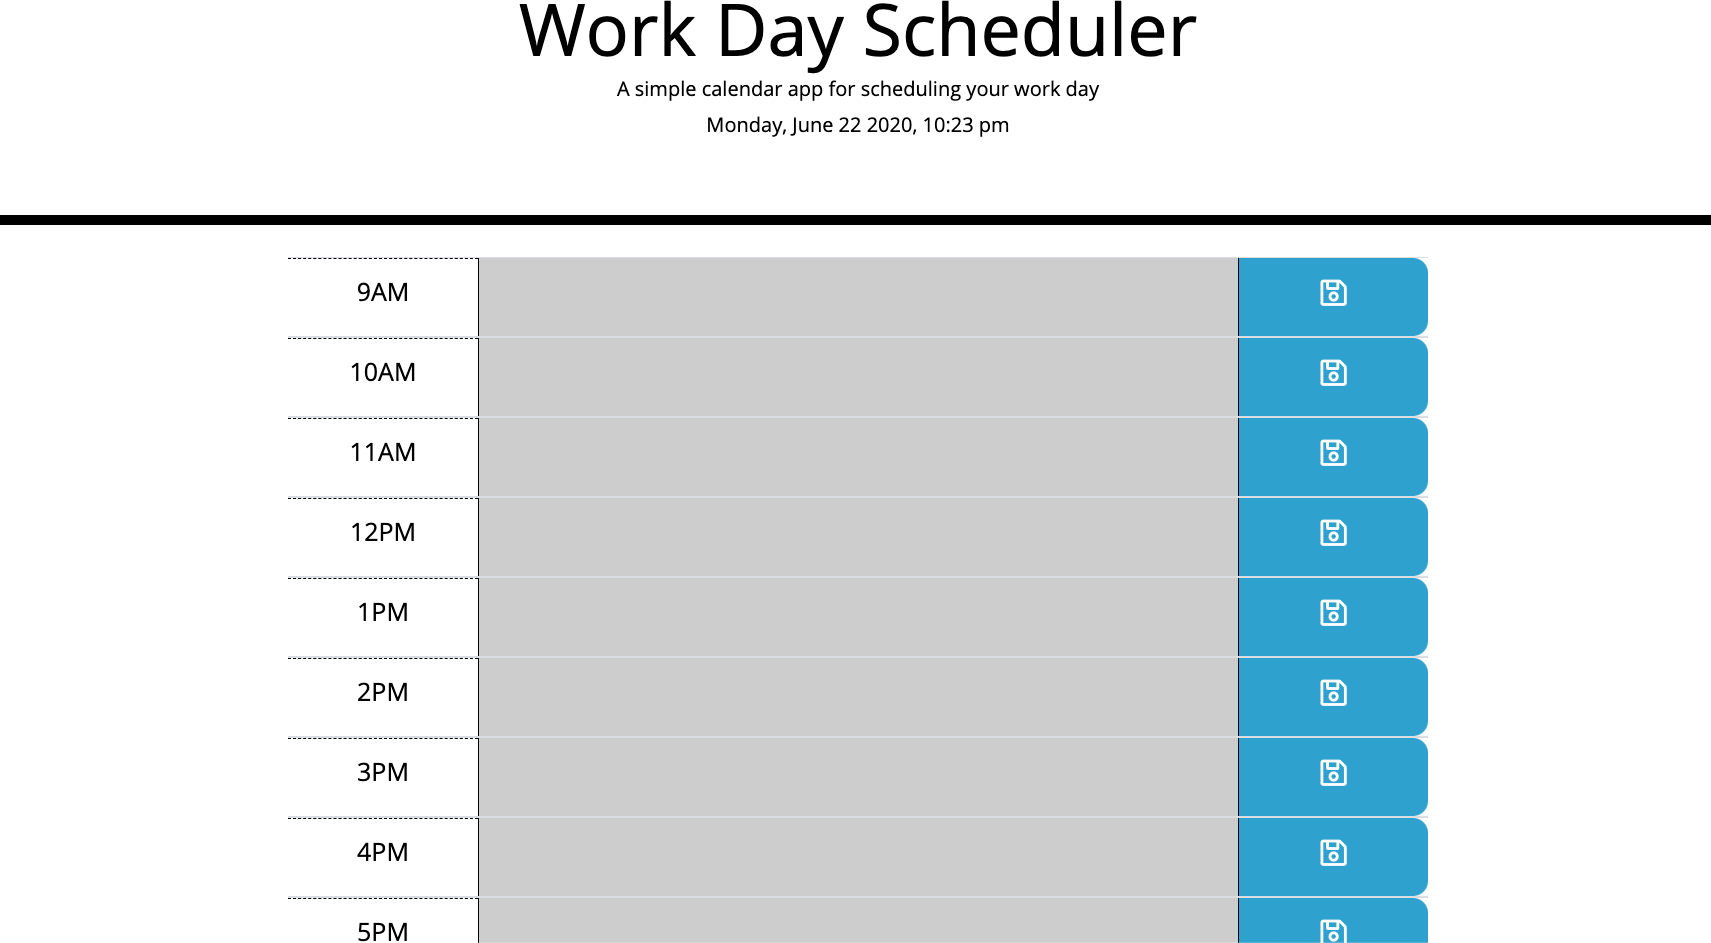
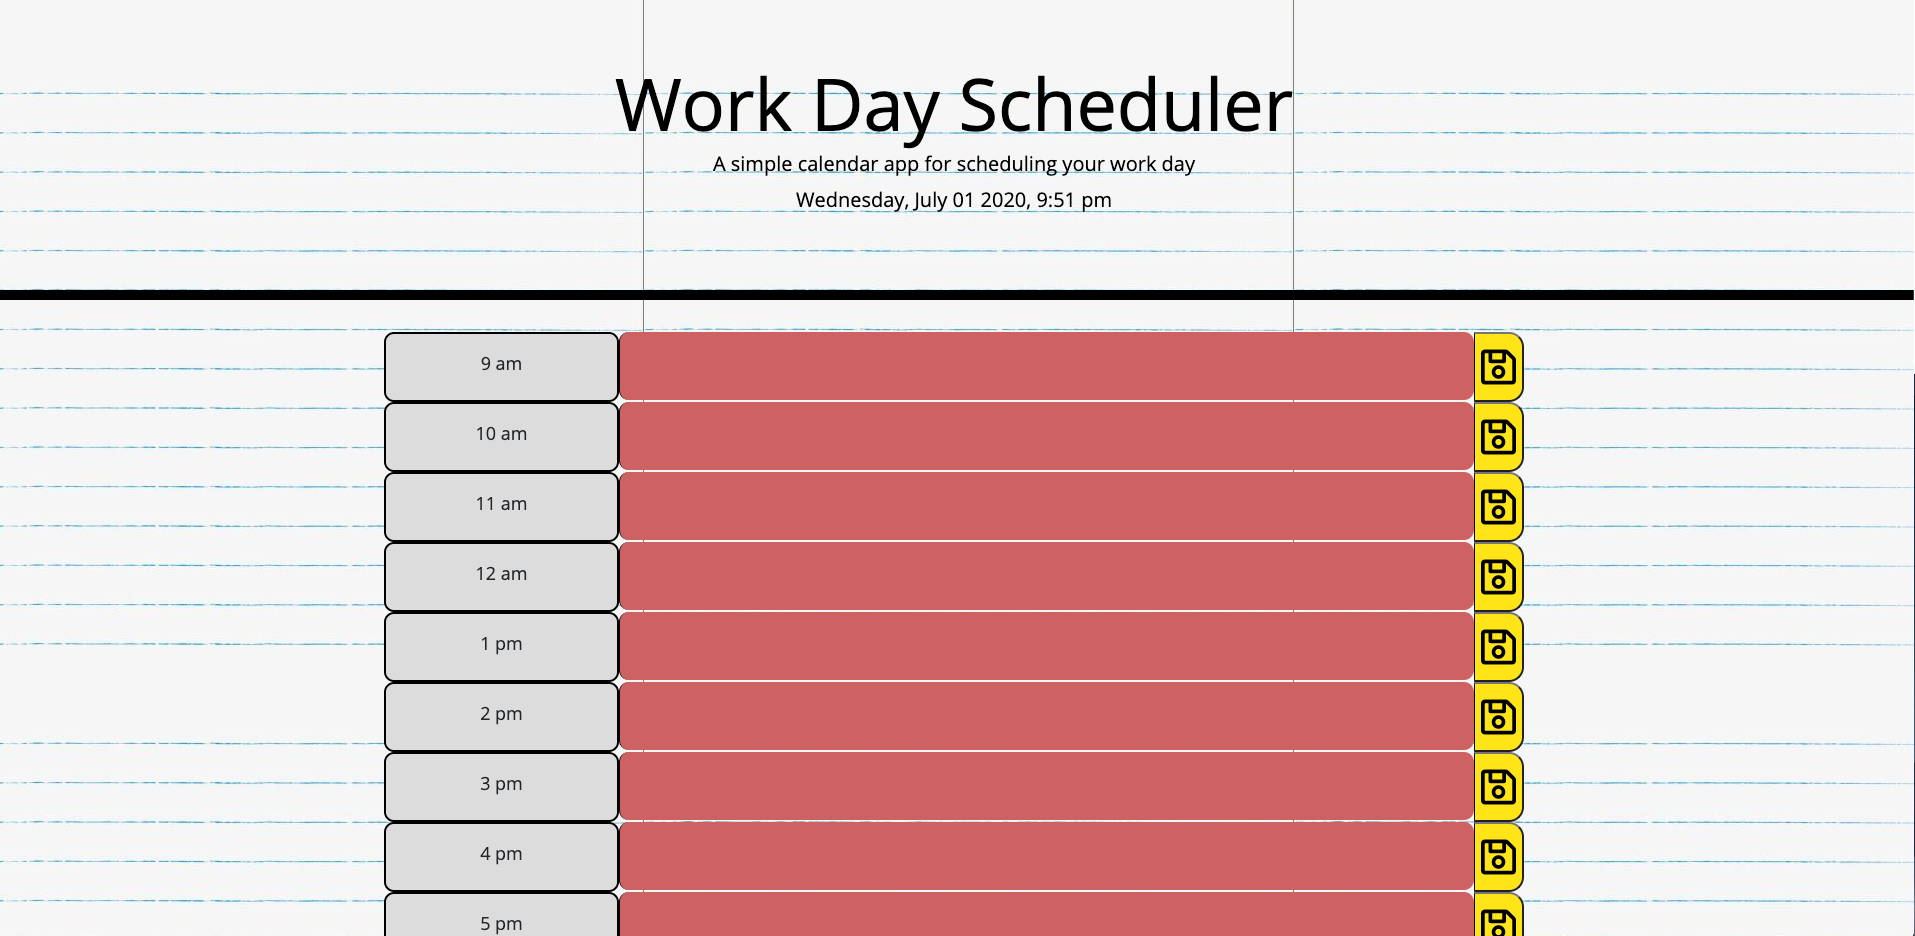
updated README, styling and screenshots

diff --git a/style.css b/style.css
@@ -2,6 +2,7 @@ body {
     font-family: 'Open Sans', sans-serif;
     font-size: 16px;
     line-height: 1;
+    background-image: url("https://i.pinimg.com/736x/e8/3b/66/e83b66a4cfe5282103c9ae62b5e39815.jpg");
 }
 
 textarea {
@@ -34,7 +35,7 @@ textarea {
 .col {
     border: 2px solid black;
     border-radius: 10px;
-    background-color: #f4801b;
+    background-color: #dcdcdc;
 }
 
 div .col-9 {
